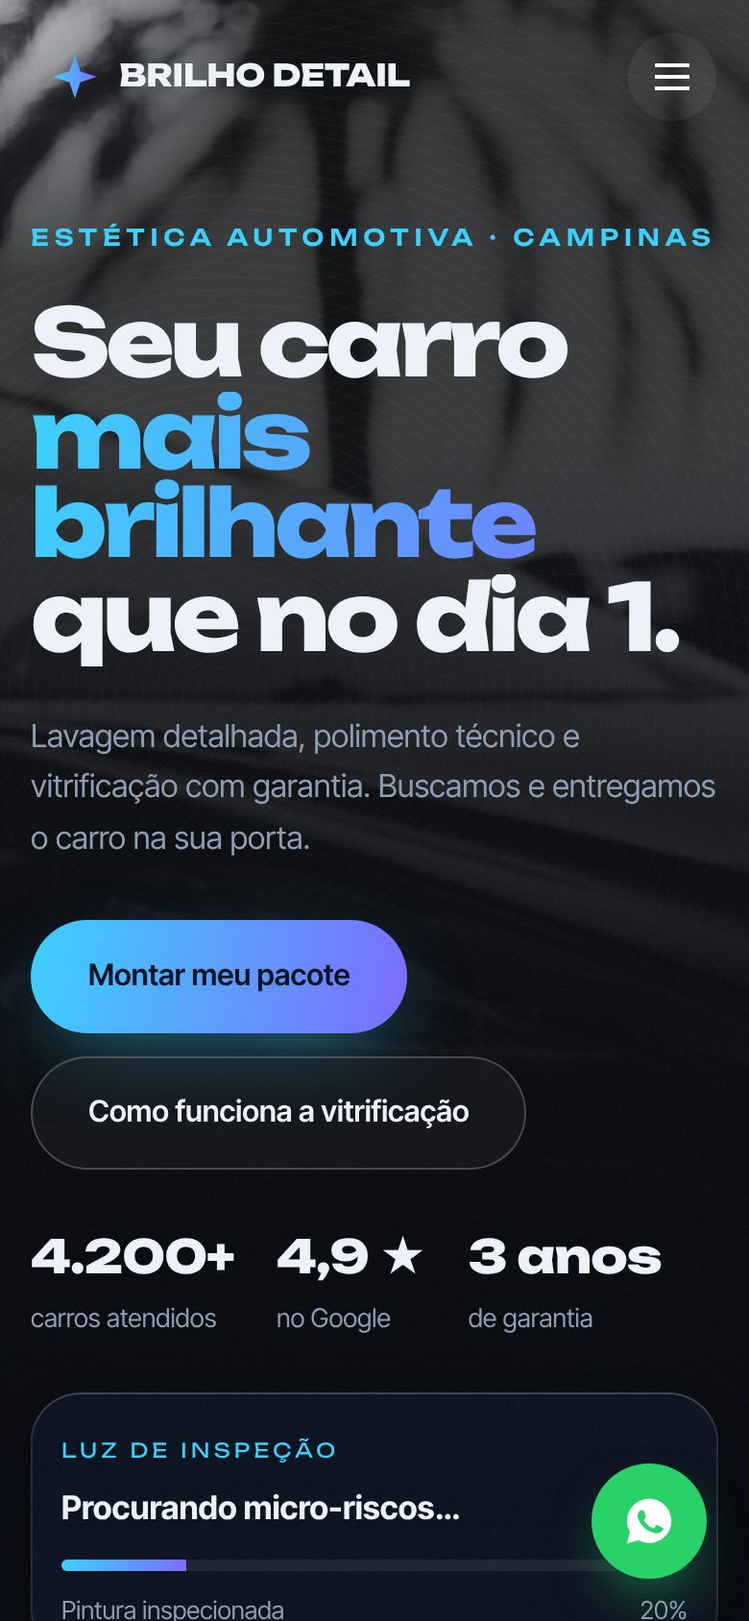
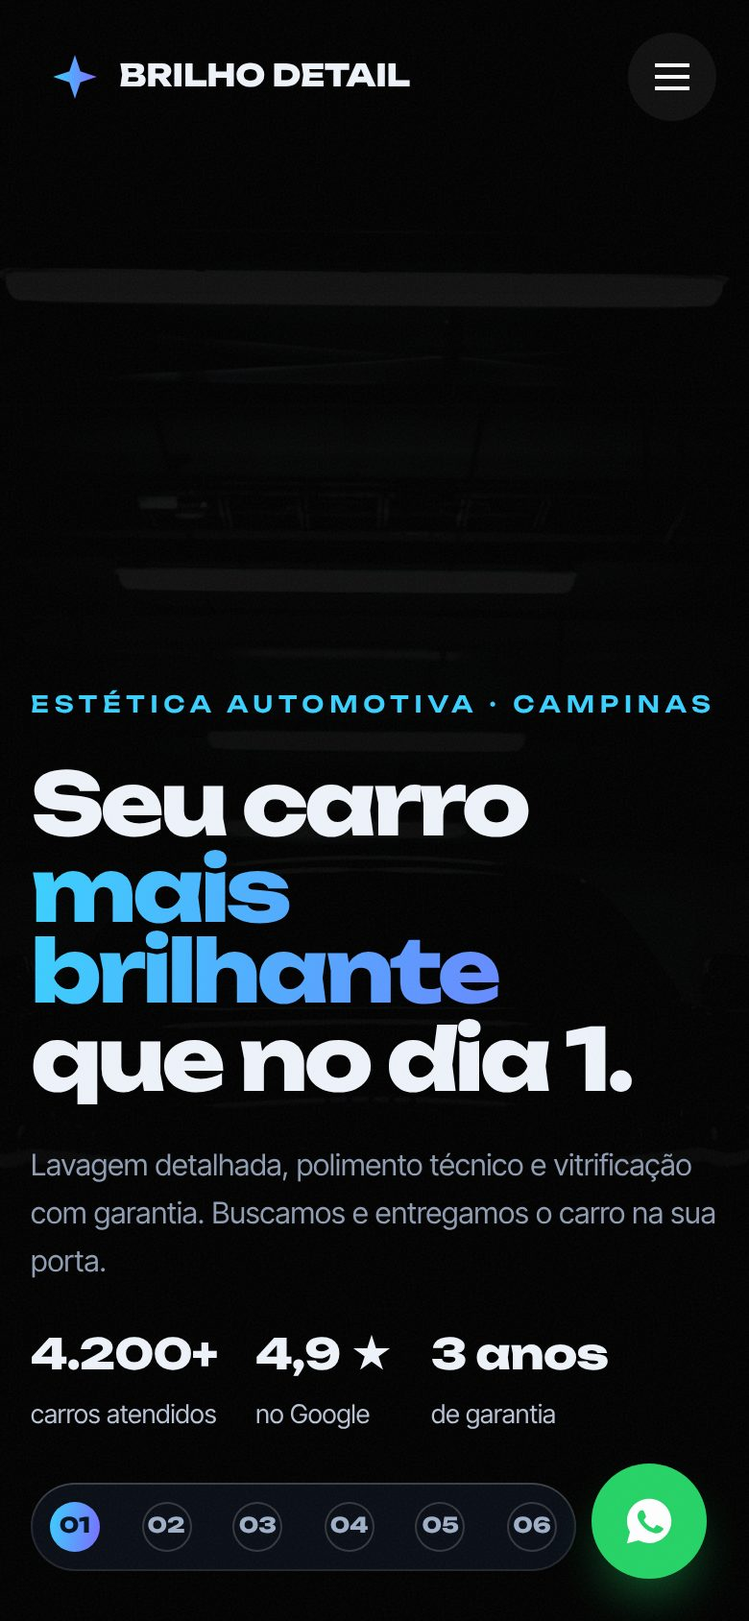
Brilho Detail: jornada imersiva do carro pelo estúdio guiada pela rolagem
Claude-Session: https://claude.ai/code/session_01QmiPwcu1vZC3FNQj5DnVy9

diff --git a/modelos/brilho-detail/index.html b/modelos/brilho-detail/index.html
@@ -98,6 +98,70 @@
   .stats span { font-size: 13.5px; color: var(--muted); }
   .hero__dica { position: absolute; left: var(--lx, 70%); top: var(--ly, 45%); transform: translate(-50%, calc(-50% - var(--r, 240px) * .55)); font-family: var(--disp); font-size: 11px; letter-spacing: .2em; text-transform: uppercase; color: rgba(255,255,255,.75); pointer-events: none; transition: opacity .5s; white-space: nowrap; }
 
+  /* FLUXO: a jornada do carro no estúdio */
+  .fluxo { position: relative; height: 1000vh; background: #000; }
+  .fluxo__st { position: sticky; top: 0; height: 100vh; height: 100svh; overflow: hidden; background: #000; isolation: isolate; }
+  .cena { position: absolute; inset: 0; opacity: 0; will-change: opacity, transform; transform-origin: 50% 50%; }
+  .cena > img, .cena .polido img { position: absolute; inset: 0; width: 100%; height: 100%; object-fit: cover; }
+  .cena[data-c="0"] > img { object-position: 50% 60%; }
+  .cena__luzes { position: absolute; inset: 0; background: #000; opacity: var(--esc, 1); }
+  .cena .fosco { filter: brightness(.55) saturate(.5) contrast(.82) blur(.8px); }
+  .cena[data-c="3"]::before { content: ""; position: absolute; inset: 0; z-index: 1; pointer-events: none; mix-blend-mode: screen; opacity: .5; background: repeating-radial-gradient(circle at 42% 46%, rgba(255,255,255,.07) 0 1px, transparent 1px 6px), repeating-radial-gradient(circle at 64% 30%, rgba(255,255,255,.06) 0 1px, transparent 1px 8px); clip-path: inset(0 0 0 var(--cut, 0%)); }
+  .polido { position: absolute; inset: 0; z-index: 2; clip-path: inset(0 calc(100% - var(--cut, 0%)) 0 0); }
+  .polido img { filter: brightness(1.1) contrast(1.14) saturate(1.25); }
+  .faixa-luz { position: absolute; z-index: 3; top: 0; bottom: 0; left: var(--cut, 0%); width: 140px; margin-left: -70px; background: linear-gradient(90deg, transparent, rgba(220,240,255,.28) 45%, rgba(255,255,255,.75) 50%, rgba(220,240,255,.28) 55%, transparent); mix-blend-mode: screen; opacity: var(--fo, 0); pointer-events: none; }
+  .gotas { position: absolute; inset: 0; }
+  .gotas .gota { transform: scale(0); transition: transform .6s var(--spring); }
+  .gotas .gota.on { transform: scale(1); }
+  .reflexo { position: absolute; inset: 0; pointer-events: none; background: linear-gradient(105deg, transparent 35%, rgba(255,255,255,.18) 47%, rgba(255,255,255,.5) 50%, rgba(255,255,255,.18) 53%, transparent 65%); transform: translateX(var(--rf, -100%)); mix-blend-mode: overlay; }
+  #fx { position: absolute; inset: 0; z-index: 8; width: 100%; height: 100%; pointer-events: none; }
+  .fluxo__veu { position: absolute; inset: 0; z-index: 9; pointer-events: none; background: linear-gradient(90deg, rgba(0,0,0,.72) 0%, rgba(0,0,0,.25) 45%, transparent 65%), linear-gradient(0deg, rgba(0,0,0,.65) 0%, transparent 40%), linear-gradient(180deg, rgba(0,0,0,.5) 0%, transparent 22%); }
+  .abre { position: absolute; z-index: 10; left: 0; right: 0; bottom: 70px; will-change: opacity, transform; }
+  .abre h1 { font-family: var(--disp); font-weight: 800; font-size: clamp(46px, 6.2vw, 102px); line-height: .95; letter-spacing: -.045em; margin: 18px 0 20px; max-width: 900px; }
+  .abre h1 .l { display: block; overflow: hidden; padding-bottom: .06em; }
+  .abre h1 .l > span { display: inline-block; transform: translateY(105%); animation: sobe 1.1s var(--ease) forwards; animation-delay: var(--d); }
+  @keyframes sobe { to { transform: none; } }
+  .abre .stats { display: flex; gap: 34px; margin-top: 30px; flex-wrap: wrap; }
+  .abre .stats b { display: block; font-family: var(--disp); font-weight: 800; font-size: 28px; letter-spacing: -.02em; }
+  .abre .stats span { font-size: 13.5px; color: #b9c4d6; }
+  .caps { position: absolute; z-index: 10; left: 0; right: 0; bottom: 70px; pointer-events: none; }
+  .cap { position: absolute; left: max(20px, (100vw - 1280px) / 2); bottom: 0; width: min(560px, 100% - 40px); opacity: 0; transform: translateY(40px); will-change: opacity, transform; }
+  .cap__n { font-family: var(--disp); font-weight: 800; font-size: clamp(90px, 13vw, 200px); line-height: .8; letter-spacing: -.05em; color: transparent; -webkit-text-stroke: 1.5px rgba(255,255,255,.45); }
+  .cap h2 { font-family: var(--disp); font-weight: 800; font-size: clamp(34px, 4.4vw, 64px); line-height: 1; letter-spacing: -.03em; margin: -14px 0 14px; }
+  .cap p { font-size: 18px; color: #d3dbe8; max-width: 460px; }
+  .cap__chip { display: inline-flex; align-items: center; gap: 8px; margin-top: 18px; padding: 9px 15px; border-radius: 999px; font-size: 13.5px; font-weight: 600; }
+  .cap__chip i { width: 8px; height: 8px; border-radius: 50%; background: var(--c); box-shadow: 0 0 12px var(--c); }
+  .trilha { position: absolute; z-index: 11; right: max(20px, (100vw - 1280px) / 2); top: 50%; transform: translateY(-50%); padding: 10px; border-radius: 22px; display: grid; gap: 2px; }
+  .trilha button { position: relative; display: flex; align-items: center; gap: 12px; padding: 9px 14px 9px 10px; border-radius: 14px; font-size: 13.5px; font-weight: 500; color: #9fb0c8; text-align: left; transition: color .3s, background .3s; }
+  .trilha button b { font-family: var(--disp); font-size: 11px; width: 26px; height: 26px; border-radius: 50%; display: grid; place-items: center; box-shadow: inset 0 0 0 1px rgba(255,255,255,.18); transition: all .3s; position: relative; }
+  .trilha button b::after { content: ""; position: absolute; inset: -3px; border-radius: 50%; background: conic-gradient(var(--c) calc(var(--p, 0) * 1turn), transparent 0); -webkit-mask: radial-gradient(circle, transparent 13px, #000 13.5px); mask: radial-gradient(circle, transparent 13px, #000 13.5px); }
+  .trilha button:hover { color: #fff; background: rgba(255,255,255,.05); }
+  .trilha button.on { color: #fff; }
+  .trilha button.on b { background: var(--grad); color: #06121f; box-shadow: none; }
+  .rolar { position: absolute; z-index: 11; left: 50%; bottom: 22px; transform: translateX(-50%); display: flex; flex-direction: column; align-items: center; gap: 8px; font-size: 12px; letter-spacing: .14em; text-transform: uppercase; color: rgba(255,255,255,.7); transition: opacity .5s; pointer-events: none; }
+  .rolar i { width: 22px; height: 34px; border-radius: 12px; box-shadow: inset 0 0 0 1.5px rgba(255,255,255,.6); position: relative; }
+  .rolar i::after { content: ""; position: absolute; left: 50%; top: 7px; width: 3px; height: 7px; margin-left: -1.5px; border-radius: 2px; background: #fff; animation: rola 1.6s infinite; }
+  @keyframes rola { 60% { transform: translateY(10px); opacity: 0; } }
+  .fim { position: absolute; z-index: 12; left: 0; right: 0; bottom: 70px; display: flex; justify-content: center; gap: 12px; flex-wrap: wrap; opacity: 0; transform: translateY(30px); pointer-events: none; transition: opacity .6s var(--ease), transform .6s var(--ease); }
+  .fim.on { opacity: 1; transform: none; pointer-events: auto; }
+  .barra-fluxo { position: absolute; z-index: 12; left: 0; top: 0; height: 3px; width: 100%; transform-origin: left; transform: scaleX(var(--pf, 0)); background: var(--grad); box-shadow: 0 0 12px var(--c); }
+  @media (max-width: 900px) {
+    .fluxo { height: 900vh; }
+    .fluxo__veu { background: linear-gradient(0deg, rgba(0,0,0,.85) 0%, rgba(0,0,0,.35) 55%, transparent 75%), linear-gradient(180deg, rgba(0,0,0,.55) 0%, transparent 25%); }
+    .abre { bottom: 96px; }
+    .abre h1 { font-size: clamp(40px, 11.5vw, 60px); }
+    .abre .lead { font-size: 15.5px; }
+    .abre .stats { gap: 20px; margin-top: 18px; } .abre .stats b { font-size: 22px; }
+    .caps { bottom: 96px; }
+    .cap { left: 16px; width: calc(100% - 32px); }
+    .cap__n { font-size: 84px; }
+    .cap h2 { font-size: 34px; margin-top: -8px; }
+    .cap p { font-size: 15.5px; }
+    .trilha { top: auto; bottom: 26px; right: 90px; left: 16px; transform: none; display: flex; justify-content: space-between; padding: 6px; border-radius: 999px; }
+    .trilha button { padding: 4px; } .trilha button span { display: none; }
+    .rolar { display: none; }
+    .fim { bottom: 96px; padding: 0 16px; }
+  }
   .mq { padding: 22px 0; overflow: hidden; border-block: 1px solid var(--line); }
   .mq__in { display: flex; width: max-content; will-change: transform; }
   .mq span { display: flex; align-items: center; gap: 28px; padding-right: 28px; font-family: var(--disp); font-weight: 600; font-size: clamp(20px, 2.4vw, 32px); white-space: nowrap; color: #c9d3e2; }
@@ -287,51 +351,43 @@
 <header class="nav" id="nav">
   <div class="wrap nav__in">
     <a href="#topo" class="logo"><svg viewBox="0 0 32 32"><defs><linearGradient id="lg" x1="0" x2="1"><stop offset="0" stop-color="#3ad1ff" /><stop offset="1" stop-color="#7b6bff" /></linearGradient></defs><path d="M16 2l3.5 10.5L30 16l-10.5 3.5L16 30l-3.5-10.5L2 16l10.5-3.5z" fill="url(#lg)" /></svg>BRILHO DETAIL</a>
-    <nav class="links" id="links"><i class="links__pill" id="lpill"></i><a href="#correcao">Correção</a><a href="#pacote">Monte seu pacote</a><a href="#protecao">Vitrificação</a><a href="#processo">Processo</a><a href="#agendar">Agendar</a></nav>
+    <nav class="links" id="links"><i class="links__pill" id="lpill"></i><a href="#topo">Jornada</a><a href="#pacote">Monte seu pacote</a><a href="#protecao">Vitrificação</a><a href="#agendar">Agendar</a></nav>
     <a href="#pacote" class="btn btn--c mag" style="padding:12px 22px">Orçamento</a>
     <button class="burger" id="burger" aria-label="Abrir menu" aria-expanded="false"><span></span></button>
   </div>
 </header>
-<nav class="menu vidro" id="menu"><a href="#correcao">Correção</a><a href="#pacote">Monte seu pacote</a><a href="#protecao">Vitrificação</a><a href="#processo">Processo</a><a href="#agendar">Agendar</a></nav>
+<nav class="menu vidro" id="menu"><a href="#topo">Jornada</a><a href="#pacote">Monte seu pacote</a><a href="#protecao">Vitrificação</a><a href="#agendar">Agendar</a></nav>
 
 <main>
-<section class="hero" id="topo">
-  <div class="hero__foto" aria-hidden="true">
-    <img class="hero__fosco" id="hFosco" src="https://images.unsplash.com/photo-1728926580875-a479706f866c?w=2000&q=82&auto=format&fit=crop" alt="" />
-    <img class="hero__polido" id="hPolido" src="https://images.unsplash.com/photo-1728926580875-a479706f866c?w=2000&q=82&auto=format&fit=crop" alt="" />
-  </div>
-  <div class="hero__swirl" aria-hidden="true"></div>
-  <div class="hero__brilho" aria-hidden="true"></div>
-  <div class="hero__sombra" aria-hidden="true"></div>
-  <span class="hero__dica" id="hDica" aria-hidden="true">luz de inspeção</span>
-  <div class="wrap hero__grid">
-    <div>
-      <span class="eyebrow" data-r>Estética automotiva · Campinas</span>
-      <h1 aria-label="Seu carro mais brilhante que no dia 1."><span class="l"><span style="--d:.05s">Seu carro</span></span><span class="l"><span style="--d:.15s" class="grad">mais brilhante</span></span><span class="l"><span style="--d:.25s">que no dia 1.</span></span></h1>
-      <p class="lead" data-r style="--d:.3s">Lavagem detalhada, polimento técnico e vitrificação com garantia. Buscamos e entregamos o carro na sua porta.</p>
-      <div class="hero__cta" data-r style="--d:.4s"><a href="#pacote" class="btn btn--c mag">Montar meu pacote</a><a href="#protecao" class="btn btn--o mag">Como funciona a vitrificação</a></div>
-      <div class="stats" data-r style="--d:.5s"><div><b data-n="4200">0</b><span>carros atendidos</span></div><div><b>4,9 ★</b><span>no Google</span></div><div><b>3 anos</b><span>de garantia</span></div></div>
+<section class="fluxo" id="topo" aria-label="A jornada do carro no estúdio">
+  <div class="fluxo__st" id="fst">
+    <div class="cena" data-c="0"><img src="https://images.unsplash.com/photo-1567808291548-fc3ee04dbcf0?w=2000&q=82&auto=format&fit=crop" alt="Carro chegando ao estúdio escuro" /><i class="cena__luzes"></i></div>
+    <div class="cena" data-c="1"><img src="https://images.unsplash.com/photo-1761312834150-4beefff097a7?w=2000&q=82&auto=format&fit=crop" alt="Carro coberto de espuma ativa" /></div>
+    <div class="cena" data-c="2"><img src="https://images.unsplash.com/photo-1708805282683-50a060eba80f?w=2000&q=82&auto=format&fit=crop" alt="Detalhamento da roda com pincel" /></div>
+    <div class="cena" data-c="3"><img class="fosco" src="https://images.unsplash.com/photo-1788273224786-291298763877?w=2000&q=82&auto=format&fit=crop" alt="Capô antes do polimento" /><div class="polido"><img src="https://images.unsplash.com/photo-1788273224786-291298763877?w=2000&q=82&auto=format&fit=crop" alt="Capô depois do polimento" /></div><i class="faixa-luz"></i></div>
+    <div class="cena" data-c="4"><img src="https://images.unsplash.com/photo-1788581171092-bdcff4e69fbf?w=2000&q=82&auto=format&fit=crop" alt="Pintura vitrificada com gotas de água" /><div class="gotas" id="fGotas"></div></div>
+    <div class="cena" data-c="5"><img src="https://images.unsplash.com/photo-1728926580875-a479706f866c?w=2000&q=82&auto=format&fit=crop" alt="Esportivo pronto para entrega" /><i class="reflexo"></i></div>
+    <canvas id="fx" aria-hidden="true"></canvas>
+    <div class="fluxo__veu"></div>
+
+    <div class="abre" id="abre">
+      <div class="wrap">
+        <span class="eyebrow">Estética automotiva · Campinas</span>
+        <h1><span class="l"><span style="--d:.05s">Seu carro</span></span><span class="l"><span style="--d:.15s" class="grad">mais brilhante</span></span><span class="l"><span style="--d:.25s">que no dia 1.</span></span></h1>
+        <p class="lead">Lavagem detalhada, polimento técnico e vitrificação com garantia. Buscamos e entregamos o carro na sua porta.</p>
+        <div class="stats"><div><b data-n="4200">0</b><span>carros atendidos</span></div><div><b>4,9 ★</b><span>no Google</span></div><div><b>3 anos</b><span>de garantia</span></div></div>
+      </div>
     </div>
-    <div class="lanterna vidro" data-r style="--d:.6s">
-      <small>Luz de inspeção</small>
-      <b id="lTxt">Passe a luz na pintura</b>
-      <div class="lanterna__bar" id="lBar"><i></i></div>
-      <p><span>Pintura inspecionada</span><span id="lPct">0%</span></p>
-    </div>
+
+    <div class="caps" id="caps"></div>
+
+    <nav class="trilha vidro" id="trilha" aria-label="Etapas do processo"></nav>
+    <div class="rolar" id="rolar"><span>Role para acompanhar o carro no estúdio</span><i></i></div>
+    <div class="fim" id="fim"><a href="#pacote" class="btn btn--c mag">Montar meu pacote</a><a href="#agendar" class="btn btn--o mag">Agendar agora</a></div>
   </div>
 </section>
 
 <div class="mq" aria-hidden="true"><div class="mq__in" id="mq"></div></div>
-
-<section class="corr" id="correcao">
-  <div class="corr__st">
-    <div class="corr__img"><img class="corr__antes" src="https://images.unsplash.com/photo-1788273224786-291298763877?w=2000&q=80&auto=format&fit=crop" alt="Capô com pintura opaca e micro-riscos" /><div class="corr__riscos"></div></div>
-    <div class="corr__depois" id="cDepois"><img src="https://images.unsplash.com/photo-1788273224786-291298763877?w=2000&q=80&auto=format&fit=crop" alt="Capô após polimento técnico" /></div>
-    <div class="corr__linha" id="cLinha"><span class="vidro">⟷</span></div>
-    <div class="corr__txt"><div class="wrap"><span class="eyebrow">Correção de pintura</span><h2 class="h2" style="margin-top:14px;max-width:620px">Role e veja o <span class="grad">verniz renascer.</span></h2><div class="corr__pct" id="cPct">0%</div></div></div>
-    <div class="corr__tags"><div class="wrap" style="display:flex;justify-content:space-between;gap:14px;flex-wrap:wrap"><div class="vidro"><b>Antes</b><small>Hologramas, marcas de lavagem e verniz opaco.</small></div><div class="vidro"><b>Depois</b><small>Polimento em 3 etapas: corte, refino e lustro.</small></div></div></div>
-  </div>
-</section>
 
 <section class="build" id="pacote">
   <div class="wrap">
@@ -373,20 +429,6 @@
         <div><p>Vitrificação Brilho Pro <span>até 3 anos</span></p><div class="bar"><i style="--w:100%"></i></div></div>
       </div>
     </div>
-  </div>
-</section>
-
-<section class="proc" id="processo">
-  <div class="proc__st">
-    <div class="wrap proc__cab"><div><span class="eyebrow">Processo</span><h2 class="h2" style="margin-top:14px">Do pré-lavado ao <span class="grad">acabamento</span></h2></div><p class="lead" style="max-width:360px">Cada etapa fotografada e enviada para você pelo WhatsApp.</p></div>
-    <div class="proc__trilho" id="trilho">
-      <article class="ps"><img src="https://images.unsplash.com/photo-1761312834150-4beefff097a7?w=900&q=78&auto=format&fit=crop" alt="Carro coberto de espuma" loading="lazy" /><span class="ps__n">01</span><div class="ps__t vidro"><h3>Pré-lavagem</h3><p>Espuma ativa de pH neutro solta a sujeira sem atrito.</p></div></article>
-      <article class="ps"><img src="https://images.unsplash.com/photo-1708805282683-50a060eba80f?w=900&q=78&auto=format&fit=crop" alt="Limpeza de pneu com escova" loading="lazy" /><span class="ps__n">02</span><div class="ps__t vidro"><h3>Detalhamento</h3><p>Rodas, caixas de roda, frisos e emblemas com pincéis.</p></div></article>
-      <article class="ps"><img src="https://images.unsplash.com/photo-1780558852670-3f49298ecc1f?w=900&q=78&auto=format&fit=crop" alt="Polimento da pintura" loading="lazy" /><span class="ps__n">03</span><div class="ps__t vidro"><h3>Correção</h3><p>Polimento em etapas remove riscos e marcas de lavagem.</p></div></article>
-      <article class="ps"><img src="https://images.unsplash.com/photo-1605437241278-c1806d14a4d9?w=900&q=78&auto=format&fit=crop" alt="Interior do carro limpo" loading="lazy" /><span class="ps__n">04</span><div class="ps__t vidro"><h3>Proteção</h3><p>Vitrificação ou selante e interior higienizado.</p></div></article>
-      <article class="ps"><img src="https://images.unsplash.com/photo-1567808291548-fc3ee04dbcf0?w=900&q=78&auto=format&fit=crop" alt="Carro pronto no estúdio" loading="lazy" /><span class="ps__n">05</span><div class="ps__t vidro"><h3>Entrega</h3><p>Inspeção final com luz de estúdio e leva-e-traz até a sua porta.</p></div></article>
-    </div>
-    <div class="proc__prog"><i id="pProg"></i></div>
   </div>
 </section>
 
@@ -466,7 +508,7 @@
   if (fino) {
     document.addEventListener("pointerover", (e) => {
       const l = e.target.closest("[data-cur]"), h = e.target.closest("a, button, input, select, label"), s = e.target.closest("#topo");
-      cur.classList.toggle("lbl", !!l && !h); cur.classList.toggle("link", !!h); cur.classList.toggle("lanterna", !!s && !h);
+      cur.classList.toggle("lbl", !!l && !h); cur.classList.toggle("link", !!h);
       if (l && !h) curT.textContent = l.dataset.cur;
     });
     $$(".mag").forEach((b) => {
@@ -475,34 +517,126 @@
     });
   }
 
-  /* HERO: luz de inspeção revela a pintura polida */
-  const hero = $("#topo"), hP = $("#hPolido"), hF = $("#hFosco");
-  const luz = { x: .7, y: .45 }; let luzAlvo = { x: .7, y: .45 }, mexeu = false;
-  const GRADE = 12, vistos = new Set();
-  const mexe = (e) => { const r = hero.getBoundingClientRect(); luzAlvo = { x: (e.clientX - r.left) / r.width, y: (e.clientY - r.top) / r.height }; if (!mexeu) { mexeu = true; $("#hDica").style.opacity = 0; } };
-  hero.addEventListener("pointermove", mexe); hero.addEventListener("pointerdown", mexe);
-  function heroFrame(t) {
-    const r = hero.getBoundingClientRect(); if (r.bottom < 0) return;
-    if (!mexeu && !reduz) luzAlvo = { x: .64 + Math.sin(t * .0006) * .22, y: .45 + Math.sin(t * .0011) * .14 };
-    luz.x = lerp(luz.x, luzAlvo.x, .12); luz.y = lerp(luz.y, luzAlvo.y, .12);
-    const raio = Math.max(160, Math.min(320, r.width * .2));
-    hero.style.setProperty("--lx", luz.x * 100 + "%"); hero.style.setProperty("--ly", luz.y * 100 + "%"); hero.style.setProperty("--r", raio + "px");
-    const s = scrollY * .12; hP.style.transform = hF.style.transform = `translateY(${s}px) scale(1.05)`;
-    if (mexeu) {
-      const k = `${Math.floor(clamp(luz.x, 0, .999) * GRADE)}-${Math.floor(clamp(luz.y, 0, .999) * GRADE)}`;
-      if (!vistos.has(k)) { vistos.add(k); const p = Math.min(100, Math.round(vistos.size / (GRADE * GRADE * .35) * 100)); $("#lBar").style.setProperty("--p", p + "%"); $("#lPct").textContent = p + "%"; $("#lTxt").textContent = p >= 100 ? "Pronta para o polimento ✦" : p > 50 ? "Hologramas encontrados" : "Procurando micro-riscos…"; }
+  /* =====================================================================
+     FLUXO: uma única cena fixa; a rolagem leva o carro por todo o estúdio
+     ===================================================================== */
+  const fluxo = $("#topo"), fst = $("#fst"), cenas = $$(".cena", fst), fx = $("#fx"), fctx = fx.getContext("2d");
+  const CAPS = [
+    ["01", "Chegada", "Buscamos o carro na sua porta. Antes de tudo, inspeção completa com luz de estúdio.", "Leva-e-traz incluso"],
+    ["02", "Pré-lavagem", "Espuma ativa de pH neutro amolece a sujeira e solta tudo sem nenhum atrito na pintura.", "40 minutos"],
+    ["03", "Detalhamento", "Rodas, caixas de roda, frisos e emblemas, um a um, com pincéis macios e enxágue a baixa pressão.", "1 h 30"],
+    ["04", "Polimento", "Corte, refino e lustro removem hologramas e devolvem a profundidade do verniz.", "Correção 0%"],
+    ["05", "Vitrificação", "Uma película cerâmica de dureza 9H: a água vira gota e escorre levando a sujeira.", "Proteção até 3 anos"],
+    ["06", "Entrega", "Inspeção final, fotos de cada etapa no WhatsApp e o carro de volta na sua garagem.", "Garantia por escrito"],
+  ];
+  const NC = CAPS.length;
+  $("#caps").innerHTML = CAPS.map(([n, t, p, c]) => `<div class="cap"><div class="cap__n">${n}</div><h2>${t}</h2><p>${p}</p><span class="cap__chip vidro"><i></i><span>${c}</span></span></div>`).join("");
+  const capEls = $$(".cap", fst), chip4 = $$(".cap__chip span", fst)[3];
+  $("#trilha").innerHTML = CAPS.map(([n, t], i) => `<button type="button" data-i="${i}"><b>${n}</b><span>${t}</span></button>`).join("");
+  const trilhaBtns = $$("#trilha button");
+  fst.insertAdjacentHTML("beforeend", '<i class="barra-fluxo" id="barraF"></i>');
+  const alturaFluxo = () => fluxo.offsetHeight - VH;
+  $("#trilha").onclick = (e) => { const b = e.target.closest("button"); if (!b) return; const k = +b.dataset.i; scrollTo({ top: fluxo.offsetTop + alturaFluxo() * ((k + .55) / NC), behavior: "smooth" }); };
+
+  // gotas da vitrificação (aparecem conforme a cerâmica cura)
+  const gCont = $("#fGotas"); let gs = 11; const grnd = () => (gs = (gs * 9301 + 49297) % 233280) / 233280;
+  const fGotas = [];
+  for (let i = 0; i < (VW < 900 ? 34 : 60); i++) { const d = 7 + Math.pow(grnd(), 2.2) * 40, el = document.createElement("span"); el.className = "gota"; Object.assign(el.style, { width: d + "px", height: d * .92 + "px", left: grnd() * 96 + "%", top: grnd() * 94 + "%" }); gCont.appendChild(el); fGotas.push({ el, lim: grnd() }); }
+  // a gota "portal" por onde a câmera entra
+  const portal = document.createElement("span"); portal.className = "gota"; Object.assign(portal.style, { width: "64px", height: "60px", left: "58%", top: "46%" }); gCont.appendChild(portal); fGotas.push({ el: portal, lim: .2 });
+
+  // espuma e água em canvas
+  let fdpr = Math.min(2, devicePixelRatio || 1), FW = 0, FH = 0;
+  const fres = () => { FW = fx.width = fst.offsetWidth * fdpr; FH = fx.height = fst.offsetHeight * fdpr; };
+  fres();
+  let bs = 3; const brnd = () => (bs = (bs * 9301 + 49297) % 233280) / 233280;
+  const BOLHAS = [...Array(260)].map(() => ({ x: brnd(), y: brnd(), r: 14 + Math.pow(brnd(), 1.6) * 80, k: brnd(), w: brnd() * 6.28 }));
+  const GOTAS_AGUA = [...Array(160)].map(() => ({ x: brnd(), o: brnd(), l: 40 + brnd() * 160, v: .6 + brnd() * .8, w: .6 + brnd() * 2.2 }));
+  function bolha(x, y, r, a) {
+    const g = fctx.createRadialGradient(x - r * .35, y - r * .35, r * .05, x, y, r);
+    g.addColorStop(0, `rgba(255,255,255,${.95 * a})`); g.addColorStop(.35, `rgba(245,248,252,${.85 * a})`); g.addColorStop(.85, `rgba(220,228,238,${.8 * a})`); g.addColorStop(1, `rgba(190,200,215,${.55 * a})`);
+    fctx.fillStyle = g; fctx.beginPath(); fctx.arc(x, y, r, 0, 7); fctx.fill();
+    fctx.strokeStyle = `rgba(160,175,195,${.45 * a})`; fctx.lineWidth = 1.2 * fdpr; fctx.stroke();
+    fctx.fillStyle = `rgba(255,255,255,${a})`; fctx.beginPath(); fctx.ellipse(x - r * .35, y - r * .4, r * .18, r * .1, -.6, 0, 7); fctx.fill();
+  }
+  function desenhaFx(t, P6) {
+    fctx.clearRect(0, 0, FW, FH);
+    // 1) espuma: sobe cobrindo a tela (0,70→0,95) e estoura revelando a pré-lavagem (0,95→1,30)
+    const sobe = clamp((P6 - .68) / .27), estoura = clamp((P6 - .98) / .32);
+    if (sobe > 0 && estoura < 1) {
+      const esc = Math.max(FW, FH) / 900;
+      BOLHAS.forEach((b) => {
+        const lim = 1 - sobe * 1.25; if (b.y < lim) return;
+        if (b.k < estoura) return;
+        const cresce = clamp((b.y - lim) / .12), r = b.r * esc * fdpr * (.4 + cresce * .6) * (1 + Math.sin(t * .002 + b.w) * .03);
+        bolha(b.x * FW, b.y * FH, r, 1 - clamp((estoura - b.k + .08) / .08));
+      });
+      if (sobe > .55) { fctx.fillStyle = `rgba(242,246,250,${clamp((sobe - .55) / .45) * (1 - estoura) * .9})`; fctx.fillRect(0, FH * (1 - sobe), FW, FH * sobe); }
+    }
+    // 2) enxágue: cortina de água descendo revela o detalhamento (1,70→2,15)
+    const ag = clamp((P6 - 1.7) / .45);
+    if (ag > 0 && ag < 1) {
+      const borda = ag * FH * 1.08;
+      const nev = fctx.createLinearGradient(0, borda - 120 * fdpr, 0, borda + 30 * fdpr); nev.addColorStop(0, "rgba(220,235,250,0)"); nev.addColorStop(.75, "rgba(220,235,250,.35)"); nev.addColorStop(1, "rgba(220,235,250,0)");
+      fctx.fillStyle = nev; fctx.fillRect(0, borda - 120 * fdpr, FW, 150 * fdpr);
+      GOTAS_AGUA.forEach((g) => {
+        const y = (borda - g.o * 260 * fdpr + (t * g.v * .4) % (90 * fdpr)), x = g.x * FW;
+        const lg = fctx.createLinearGradient(x, y - g.l * fdpr, x, y); lg.addColorStop(0, "rgba(230,242,255,0)"); lg.addColorStop(1, "rgba(235,245,255,.55)");
+        fctx.strokeStyle = lg; fctx.lineWidth = g.w * fdpr; fctx.beginPath(); fctx.moveTo(x, y - g.l * fdpr); fctx.lineTo(x, y); fctx.stroke();
+      });
     }
   }
 
-  /* CORREÇÃO: antes/depois pela rolagem */
-  const corr = $("#correcao");
-  function corrFrame() {
-    const r = corr.getBoundingClientRect(); if (r.top > VH || r.bottom < 0) return;
-    const p = ease(clamp((-r.top / (r.height - VH) - .08) / .84));
-    const cut = (1 - p) * 100;
-    $("#cDepois").style.setProperty("--cut", cut + "%"); $("#cLinha").style.setProperty("--cut", cut + "%");
-    $("#cDepois").style.clipPath = `inset(0 0 0 ${cut}%)`; $("#cLinha").style.left = cut + "%";
-    $("#cPct").textContent = Math.round(p * 100) + "%";
+  let PF = 0, ultCap = -1;
+  const setCena = (k, o, tr, extra) => { const c = cenas[k]; c.style.opacity = o; if (tr != null) c.style.transform = tr; if (extra) Object.assign(c.style, extra); };
+  function fluxoFrame(t) {
+    const r = fluxo.getBoundingClientRect(); if (r.top > VH || r.bottom < 0) return;
+    const alvo = clamp(-r.top / Math.max(1, r.height - VH));
+    PF = reduz ? alvo : lerp(PF, alvo, .1);
+    const P6 = PF * NC;
+    $("#barraF").style.setProperty("--pf", PF);
+
+    // cena 0: luzes do estúdio acendem, câmera avança
+    const t0 = P6, piscando = t0 > .06 && t0 < .4 ? (Math.sin(t0 * 140) > .2 || t0 > .3 ? 1 : .35) : 1;
+    const esc = clamp(1 - (t0 - .04) / .32) * piscando;
+    cenas[0].style.setProperty("--esc", reduz ? 0 : esc * .92);
+    setCena(0, P6 < 1.05 ? 1 : 0, `scale(${1.04 + clamp(t0) * .3})`);
+    // cena 1: espuma (revelada por baixo das bolhas)
+    setCena(1, P6 >= .95 && P6 < 2.2 ? 1 : 0, `scale(${1.18 - clamp(P6 - 1) * .16}) translateX(${clamp(P6 - 1) * -2}%)`);
+    // cena 2: detalhamento, revelado de cima para baixo pela água
+    const ag = clamp((P6 - 1.7) / .45);
+    setCena(2, P6 >= 1.7 && P6 < 3.1 ? 1 : 0, `scale(${1.12 - clamp(P6 - 2) * .1}) translateX(${clamp(P6 - 2) * 3}%)`, { clipPath: `inset(0 0 ${(1 - ag * 1.08) * 100}% 0)` });
+    // cena 3: polimento, revelado por um giro (como a boina da politriz)
+    const giro = clamp((P6 - 2.7) / .38);
+    const m = `conic-gradient(from -90deg at 50% 50%, #000 ${giro * 360}deg, transparent ${giro * 360 + .5}deg)`;
+    setCena(3, P6 >= 2.7 && P6 < 4.1 ? 1 : 0, `rotate(${(1 - giro) * -10}deg) scale(${1.1 + (1 - giro) * .15})`, { webkitMaskImage: giro < 1 ? m : "none", maskImage: giro < 1 ? m : "none" });
+    const corte = clamp((P6 - 3.12) / .5);
+    cenas[3].style.setProperty("--cut", corte * 100 + "%"); cenas[3].style.setProperty("--fo", corte > 0 && corte < 1 ? 1 : 0);
+    chip4.textContent = `Correção ${Math.round(corte * 100)}%`;
+    // cena 4: vitrificação; as gotas aparecem e a câmera entra numa delas
+    const v = P6 - 4, ent = ease(clamp((v - .55) / .45));
+    setCena(4, P6 >= 3.75 && P6 < 5.2 ? 1 : 0, `scale(${(1.08 - clamp(v + .25) * .08) * (1 + ent * 9)})`, { transformOrigin: "calc(58% + 32px) calc(46% + 30px)", opacity: P6 < 4 ? clamp((P6 - 3.75) / .25) : 1, filter: P6 < 4 ? `blur(${(1 - clamp((P6 - 3.75) / .25)) * 10}px)` : "none" });
+    fGotas.forEach((g) => g.el.classList.toggle("on", v > .02 + g.lim * .45));
+    // cena 5: entrega, vista "dentro" da gota, que se abre até a tela toda
+    const raio = ent * 150;
+    const mk = ent < 1 ? `radial-gradient(circle at calc(58% + 32px) calc(46% + 30px), #000 ${raio}vmax, transparent ${raio + .5}vmax)` : "none";
+    setCena(5, ent > 0 ? 1 : 0, `scale(${1.25 - ent * .2 - clamp(P6 - 5) * .05})`, { webkitMaskImage: mk, maskImage: mk });
+    cenas[5].style.setProperty("--rf", (-100 + clamp((P6 - 5.1) / .6) * 220) + "%");
+
+    desenhaFx(t, P6);
+
+    // textos
+    const ab = $("#abre"), ao = 1 - clamp((P6 - .3) / .2);
+    ab.style.opacity = ao; ab.style.transform = `translateY(${(1 - ao) * -40}px)`; ab.style.pointerEvents = ao > .5 ? "auto" : "none";
+    $("#rolar").style.opacity = P6 < .15 ? 1 : 0;
+    capEls.forEach((c, i) => {
+      const lt = P6 - i, ini = i === 0 ? .5 : .2, fimC = i === NC - 1 ? .55 : .82;
+      const o = clamp((lt - ini) / .12) * (1 - clamp((lt - fimC) / .12));
+      c.style.opacity = o; c.style.transform = `translateY(${(1 - o) * (lt < ini + .12 ? 40 : -40)}px)`;
+    });
+    $("#fim").classList.toggle("on", P6 > 5.45);
+    const k = Math.min(NC - 1, Math.floor(P6));
+    trilhaBtns.forEach((b, i) => { b.classList.toggle("on", i === k); b.style.setProperty("--p", clamp(P6 - i)); });
   }
 
   /* Monte seu pacote */
@@ -565,15 +699,6 @@
     if (!reduz && !capoMouse && Math.random() < .01) { const g = gotas[Math.floor(Math.random() * gotas.length)]; if (g) g.solta = true; }
   }
 
-  /* PROCESSO horizontal */
-  const proc = $("#processo"), trilho = $("#trilho"), psImgs = $$(".ps img");
-  function procFrame() {
-    const r = proc.getBoundingClientRect(); if (r.top > VH || r.bottom < 0) return;
-    const p = clamp(-r.top / (r.height - VH)), max = Math.max(0, trilho.scrollWidth - VW + 40);
-    trilho.style.transform = `translateX(${-p * max}px)`; $("#pProg").style.transform = `scaleX(${p})`;
-    psImgs.forEach((im) => { const b = im.parentElement.getBoundingClientRect(); im.style.transform = `scale(1.12) translateX(${(b.left + b.width / 2 - VW / 2) * -.06}px)`; });
-  }
-
   /* portfólio: reflexo */
   if (fino) $("#mos").addEventListener("pointermove", (e) => { const f = e.target.closest("figure"); if (!f) return; const r = f.getBoundingClientRect(); f.style.setProperty("--gx", (e.clientX - r.left) + "px"); f.style.setProperty("--gy", (e.clientY - r.top) + "px"); });
 
@@ -595,7 +720,7 @@
     nav.classList.toggle("solid", y > 30);
     if (Math.abs(y - navY) > 8) { nav.classList.toggle("esc", y > navY && y > 700 && !menu.classList.contains("on")); navY = y; }
     if (fino) { cx = lerp(cx, mouse.x, .25); cy = lerp(cy, mouse.y, .25); cur.style.transform = `translate(${cx}px, ${cy}px)`; }
-    heroFrame(t); corrFrame(); procFrame();
+    fluxoFrame(t);
     if (!reduz) {
       capoFrame(t);
       mx -= .7 + vel * .35; const mm = mq.scrollWidth / 2; if (-mx > mm) mx += mm; mq.style.transform = `translateX(${mx}px)`;
@@ -608,7 +733,7 @@
     if (fr.top < VH) { const ini = y + fr.top - VH, fim = document.documentElement.scrollHeight - VH; marca.style.setProperty("--fill", clamp((y - ini) / Math.max(1, fim - ini)) * 100 + "%"); }
     requestAnimationFrame(quadro);
   }
-  addEventListener("resize", () => { VW = innerWidth; VH = innerHeight; });
+  addEventListener("resize", () => { VW = innerWidth; VH = innerHeight; fres(); });
   requestAnimationFrame(quadro);
 })();
 </script>

diff --git a/catalogo.js b/catalogo.js
@@ -281,8 +281,8 @@ window.MODELOS = [
     pasta: "brilho-detail",
     titulo: "Brilho Detail — Estética Automotiva",
     segmento: "Automotivo",
-    descricao: "Estética automotiva com luz de inspeção no cursor, antes e depois do polimento na rolagem, gotas de água que escorrem na vitrificação e montador de pacote.",
-    tags: ["Luz de inspeção", "Antes e depois", "Monte seu pacote"],
+    descricao: "Estética automotiva com uma jornada imersiva na rolagem: as luzes do estúdio acendem, a espuma cobre a tela, a água enxágua, o polimento gira e a câmera entra numa gota até a entrega.",
+    tags: ["Jornada imersiva", "Rolagem", "Monte seu pacote"],
     cor: "#3ad1ff",
   },
   {
